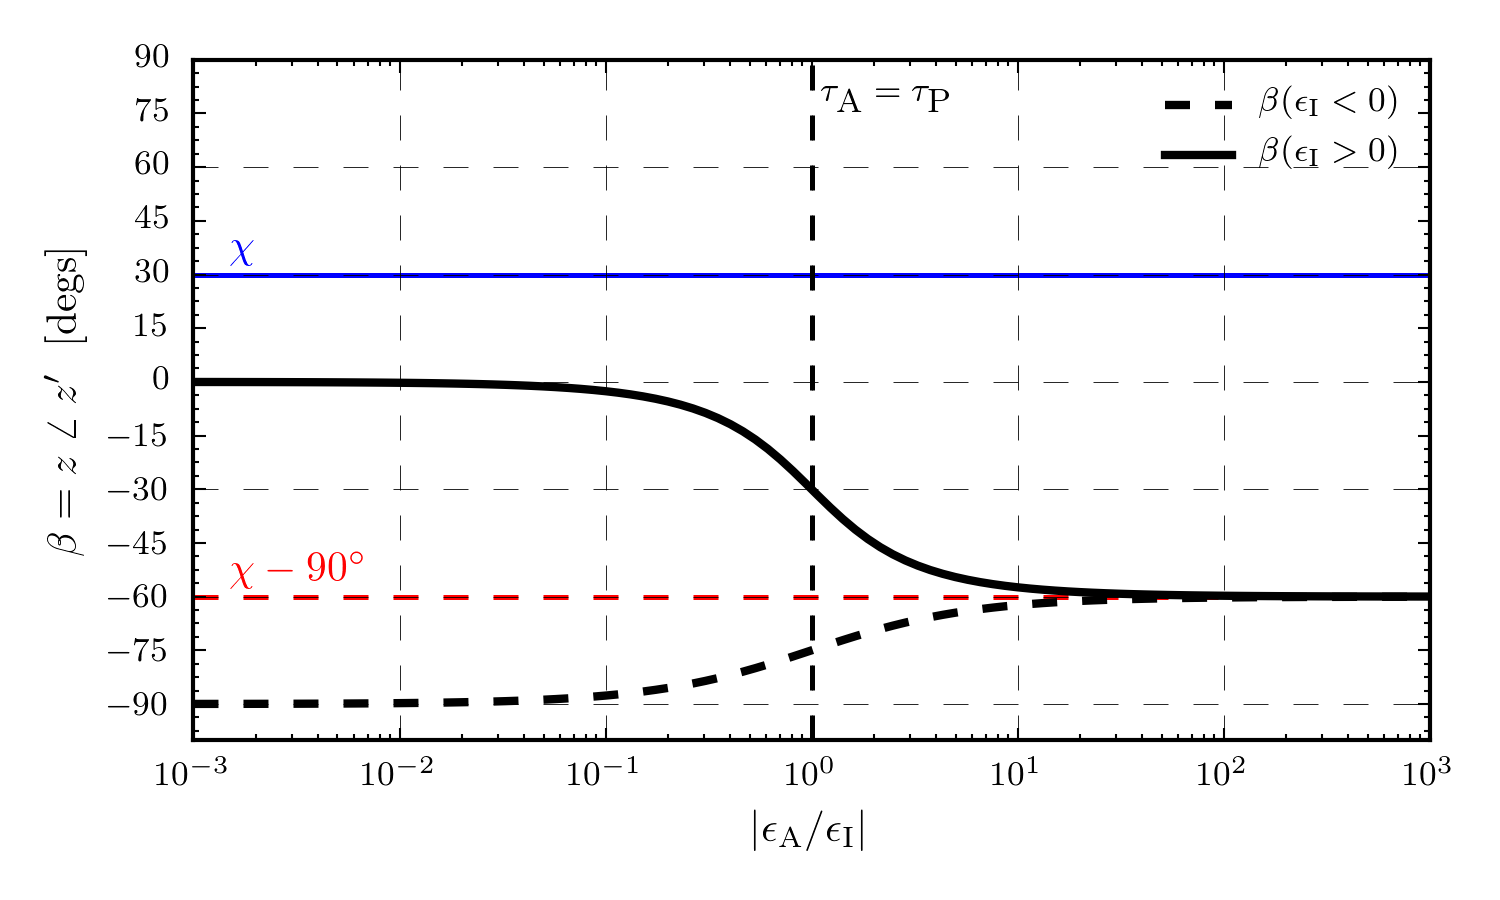
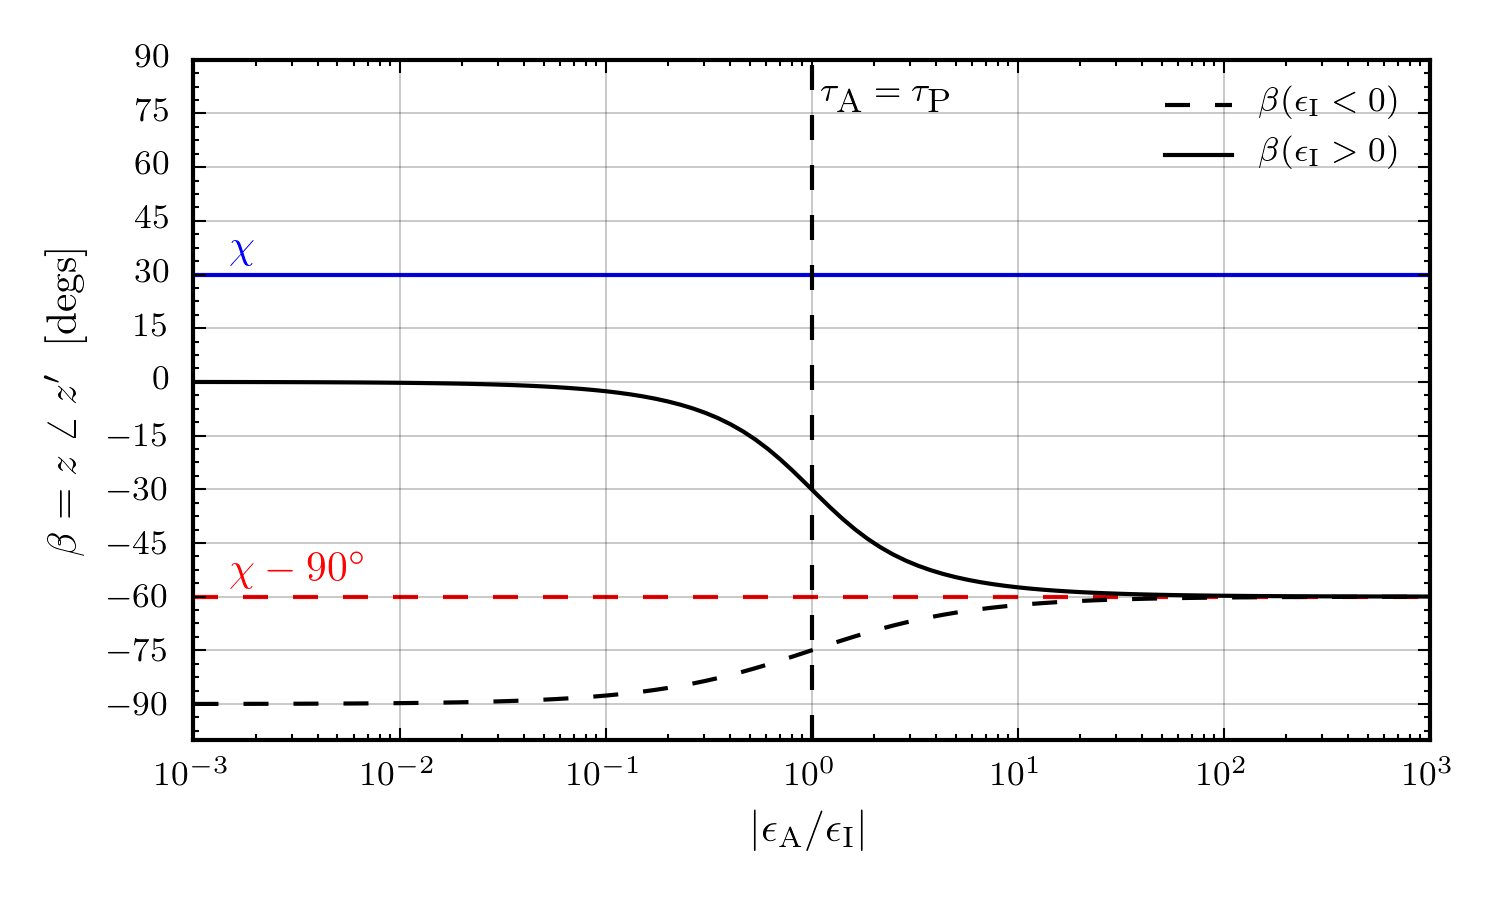
Improves asthetic of Fig. 3.9

diff --git a/rotating_frame/beta_plot.py b/rotating_frame/beta_plot.py
@@ -1,96 +1,63 @@
 import matplotlib.pyplot as plt
 import numpy as np
-from math import pi
-import sys
 
 plt.style.use("thesis")
 
- # Set the defaults
-plt.rcParams['axes.grid'] = False
 
-## Beta function
 def Beta_Function(epsI, epsA, chi):
-    a=epsA*epsA+epsI*epsI-2*epsA*epsI*np.cos(2*chi)
-    return np.arctan((epsI-epsA*np.cos(2*chi)-np.sqrt(a))/(2*epsA*np.sin(chi)*np.cos(chi)))
+    a = epsA*epsA+epsI*epsI-2*epsA*epsI*np.cos(2*chi)
+    return np.arctan((epsI-epsA*np.cos(2*chi)-np.sqrt(a)) /
+                     (2*epsA*np.sin(chi)*np.cos(chi)))
 
 # Set some values
 N = 100
-chi = 30.0*pi/180
+chi = 30.0*np.pi/180
 
 # Plot chi etc.
-fig = plt.figure(figsize=(5, 3))
+fig = plt.figure(figsize=(5,  3))
 ax = plt.subplot(111)
-plt.axhline(chi*180/pi,ls="-",color="b",lw=1.2)
-plt.axhline(chi*180/pi-90,ls="--",color="r",lw=1.2)
-ax.text(1.5e-3, chi*180/pi*1.15,"$\chi$",color="b")
-ax.text(1.5e-3, (chi*180/pi*1.15-90),"$\chi-90^{\circ}$",color="r")
+plt.axhline(chi*180/np.pi, ls="-", color="b")
+plt.axhline(chi*180/np.pi-90, ls="--", color="r")
+ax.text(1.5e-3,  chi*180/np.pi*1.15, "$\chi$", color="b")
+ax.text(1.5e-3,  (chi*180/np.pi*1.15-90), "$\chi-90^{\circ}$", color="r")
 
 # Plot the line $\tau_{A}=\tau_{P}$
-plt.axvline(1.0,ls="--",color="k",lw=1.2)
-plt.text(1.1, 75, r"$\tau_{\textrm{A}}=\tau_{\textrm{P}}$", color="k", fontsize=8)
+plt.axvline(1.0, ls="--", color="k")
+plt.text(1.1, 75, r"$\tau_{\textrm{A}}=\tau_{\textrm{P}}$",
+         color="k", fontsize=8)
 
 # Plot the dafault beta for prolate and oblate cases
 
-j=0 ; labels=[r"$\beta(\epsilon_\mathrm{I}<0)$",r"$\beta (\epsilon_\mathrm{I}>0)$"] ;styles=["--","-"]
-for epsI in [-1e-6 , 1e-6]:
+j = 0
+labels = [r"$\beta(\epsilon_\mathrm{I}<0)$",
+          r"$\beta (\epsilon_\mathrm{I}>0)$"]
+styles = ["--", "-"]
 
-    epsA_list=np.logspace(-9,-3,N)
-
-    ratio_list=[] ; beta_list_G=[] ; beta_list_J=[]
+for epsI in [-1e-6, 1e-6]:
+    epsA_list = np.logspace(-9, -3, N)
+    ratio_list = []
+    beta_list_G = []
+    beta_list_J = []
     for i in range(N):
-            ratio_list.append(abs(epsA_list[i]/epsI))
-            beta = Beta_Function(epsI,epsA_list[i],chi)
-            beta_list_G.append((beta)*180/pi)
+        ratio_list.append(abs(epsA_list[i]/epsI))
+        beta = Beta_Function(epsI, epsA_list[i], chi)
+        beta_list_G.append((beta)*180/np.pi)
 
-    plt.semilogx(ratio_list, beta_list_G, color="k", ls=styles[j],
-                label=labels[j],lw=2)
+    plt.semilogx(ratio_list,  beta_list_G,  color="k",  ls=styles[j],
+                 label=labels[j])
     j += 1
 
+plt.yticks(np.arange(-90, 105, 15))
 
-# Plot the Jones beta function if required
-if "Jones_beta" in sys.argv:
-    for epsI in [-1e-6 , 1e-6]:
-        epsA_list=np.logspace(-9,-3,N)
+plt.grid(True,  linewidth=0.1,  linestyle="-")
 
-        ratio_list=[] ; beta_list_G=[] ; beta_list_J=[]
-        for i in range(N):
-            ratio_list.append(abs(epsA_list[i]/epsI))
-            beta_list_J.append(Beta_func_Jones(epsI,epsA_list[i],chi))
-
-        plt.semilogx(ratio_list,beta_list_J,color="b",ls="--",label=r"$\beta_{2}$",lw=2.5)
-
-
-plt.yticks(np.arange(-90,105,15))
-
-# Horrible code to produce lines easily
-lw_val=0.2
-plt.axhline(0,ls="--",color="k",lw=lw_val)
-plt.axhline(30,ls="--",color="k",lw=lw_val)
-plt.axhline(60,ls="--",color="k",lw=lw_val)
-plt.axhline(90,ls="--",color="k",lw=lw_val)
-plt.axhline(-30,ls="--",color="k",lw=lw_val)
-plt.axhline(-60,ls="--",color="k",lw=lw_val)
-plt.axhline(-90,ls="--",color="k",lw=lw_val)
-
-plt.axvline(pow(10,0),ls="--",color="k",lw=lw_val)
-plt.axvline(pow(10,1),ls="--",color="k",lw=lw_val)
-plt.axvline(pow(10,2),ls="--",color="k",lw=lw_val)
-plt.axvline(pow(10,3),ls="--",color="k",lw=lw_val)
-plt.axvline(pow(10,-1),ls="--",color="k",lw=lw_val)
-plt.axvline(pow(10,-2),ls="--",color="k",lw=lw_val)
-plt.axvline(pow(10,-3),ls="--",color="k",lw=lw_val)
-
-
-
-if "Jones_beta" in sys.argv: plt.legend(loc=1)
 plt.xlabel(r"$|\epsilon_\mathrm{A}/\epsilon_\mathrm{I}|$")
 plt.ylabel(r"$\beta = z \; \angle \; z' \; $ [degs]")
 
-#py.subplots_adjust(left=0.13, right=0.9, top=0.9, bottom=0.12,hspace=0.0)
-leg = ax.legend(loc=1,numpoints=1)
+leg = ax.legend(loc=1, numpoints=1)
 leg.draggable()
 leg.draw_frame(False)
-plt.xlim(pow(10,-3),pow(10,3))
+plt.xlim(pow(10, -3), pow(10, 3))
 
 plt.tight_layout()
 plt.savefig("img/beta.png")
